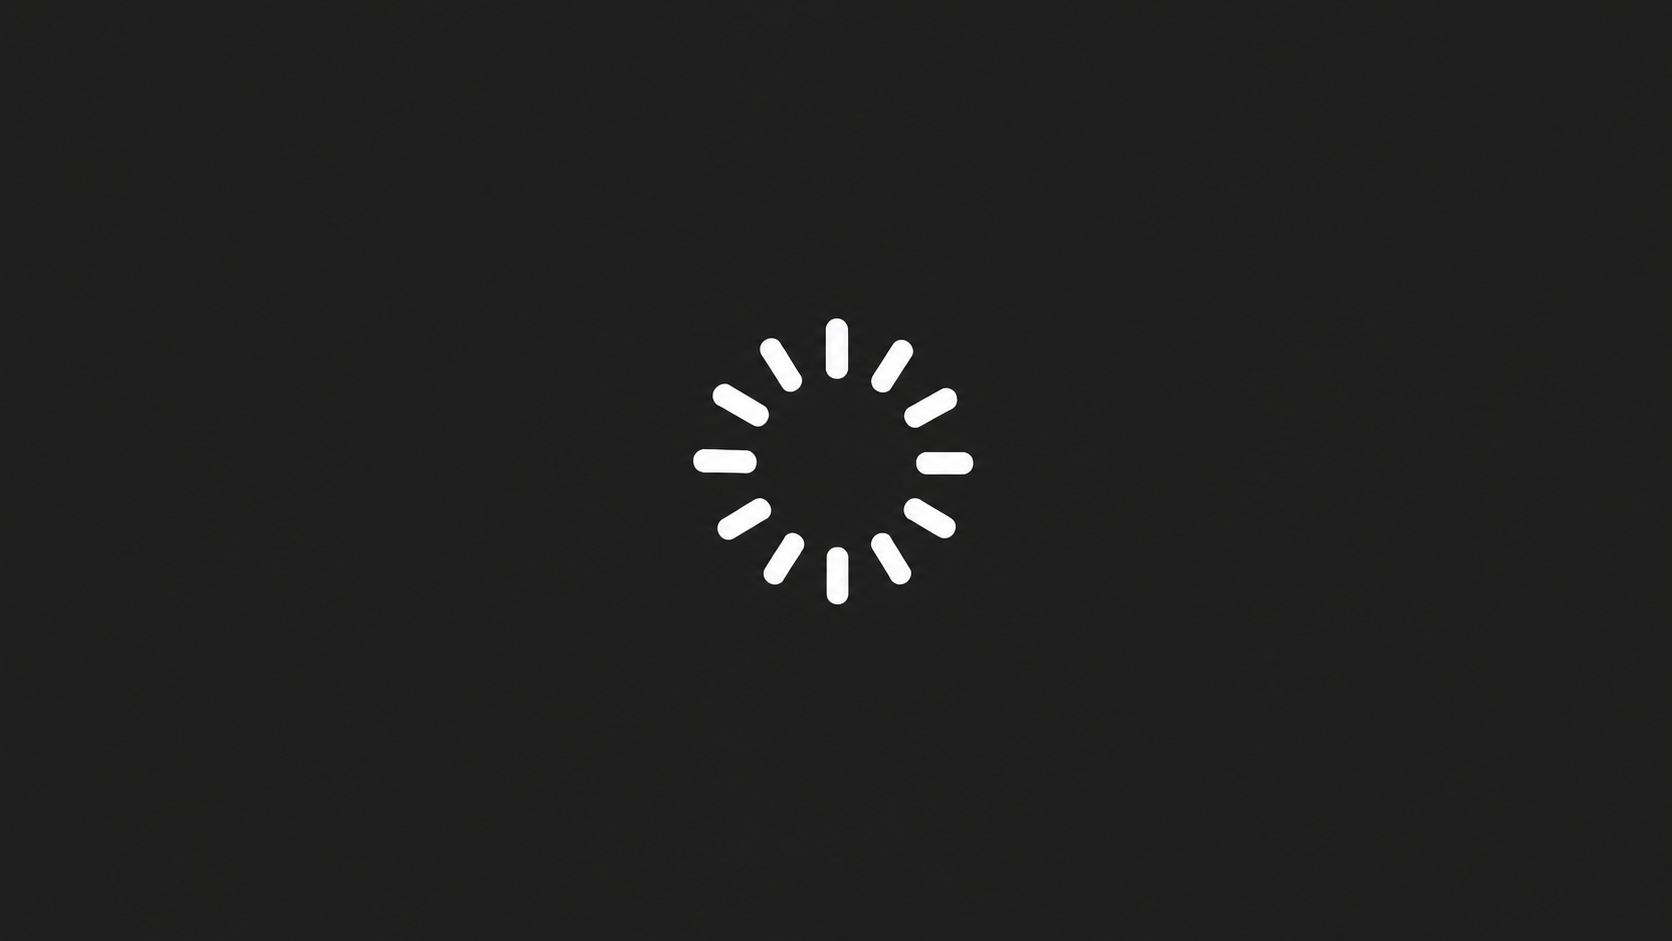
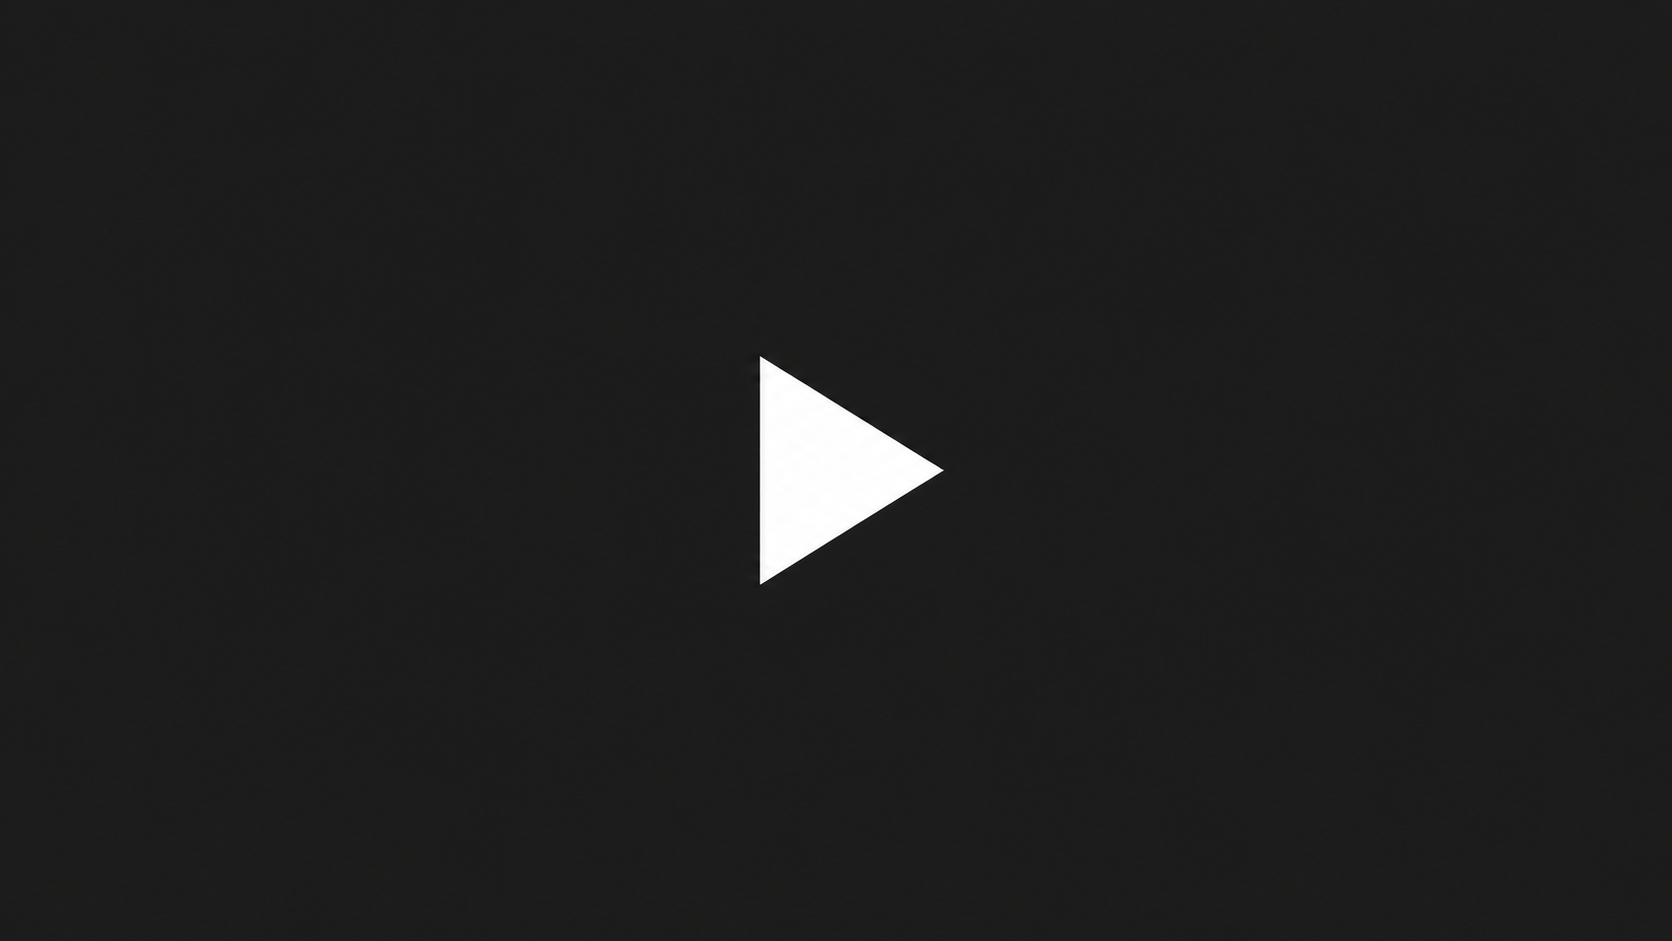
fix: 動画の手動再生ボタンを追加

Changed region(s): [[0.4043, 0.339, 0.5909, 0.6472]]

diff --git a/src/shared/ui/AutoplayVideo/index.tsx b/src/shared/ui/AutoplayVideo/index.tsx
@@ -1,3 +1,7 @@
+import { useCallback, useRef, useState } from "react";
+
+import styles from "./index.module.css";
+
 interface AutoplayVideoProps {
   src: string;
   poster: string;
@@ -8,10 +12,7 @@ const playMutedVideo = (video: HTMLVideoElement) => {
   video.defaultMuted = true;
   video.muted = true;
   video.playsInline = true;
-  if (video.paused) {
-    // Autoplay can still be denied by the browser, for example in Low Power Mode.
-    void video.play().catch(() => {});
-  }
+  return video.play();
 };
 
 const initializeVideo = (video: HTMLVideoElement | null) => {
@@ -21,24 +22,73 @@ const initializeVideo = (video: HTMLVideoElement | null) => {
   video.muted = true;
   video.playsInline = true;
   if (video.readyState >= HTMLMediaElement.HAVE_FUTURE_DATA) {
-    playMutedVideo(video);
+    void playMutedVideo(video).catch(() => {});
   }
 };
 
-const AutoplayVideo = ({ src, poster, ...props }: AutoplayVideoProps) => (
-  <video
-    {...props}
-    ref={initializeVideo}
-    poster={poster}
-    preload="metadata"
-    playsInline
-    muted
-    autoPlay
-    loop
-    onCanPlay={(event) => playMutedVideo(event.currentTarget)}
-  >
-    <source src={src} type="video/mp4" />
-  </video>
-);
+const AutoplayVideo = ({ src, poster, ...props }: AutoplayVideoProps) => {
+  const videoRef = useRef<HTMLVideoElement | null>(null);
+  const [isPlaying, setIsPlaying] = useState(false);
+  const [hasPlaybackError, setHasPlaybackError] = useState(false);
+  const label = props["aria-label"] ?? "動画";
+  const initializeVideoRef = useCallback((video: HTMLVideoElement | null) => {
+    videoRef.current = video;
+    initializeVideo(video);
+  }, []);
+
+  const handlePlayClick = () => {
+    const video = videoRef.current;
+    if (!video) return;
+    setHasPlaybackError(false);
+    // Call play synchronously within the user's click, as required by iOS.
+    void playMutedVideo(video).catch(() => setHasPlaybackError(true));
+  };
+
+  return (
+    <span className={styles["player"]}>
+      <video
+        {...props}
+        ref={initializeVideoRef}
+        poster={poster}
+        preload="metadata"
+        playsInline
+        muted
+        autoPlay
+        loop
+        onCanPlay={(event) => {
+          const video = event.currentTarget;
+          if (video.paused) void playMutedVideo(video).catch(() => {});
+        }}
+        onPlaying={() => {
+          setIsPlaying(true);
+          setHasPlaybackError(false);
+        }}
+        onPause={() => setIsPlaying(false)}
+        onEnded={() => setIsPlaying(false)}
+        onError={() => {
+          setIsPlaying(false);
+          setHasPlaybackError(true);
+        }}
+      >
+        <source src={src} type="video/mp4" />
+      </video>
+      {!isPlaying && (
+        <button
+          type="button"
+          className={styles["play-button"]}
+          aria-label={`${label}を再生`}
+          onClick={handlePlayClick}
+        >
+          <img src={poster} alt="" />
+        </button>
+      )}
+      {hasPlaybackError && (
+        <span className={styles["error"]} role="alert">
+          動画を再生できませんでした。もう一度お試しください。
+        </span>
+      )}
+    </span>
+  );
+};
 
 export default AutoplayVideo;

diff --git a/src/features/HomeCommunity/index.tsx b/src/features/HomeCommunity/index.tsx
@@ -1,5 +1,3 @@
-import { Link } from "react-router-dom";
-
 import styles from "./index.module.css";
 
 import videoLoading from "@/assets/video-loading.png";
@@ -17,13 +15,13 @@ const HomeCommunity = ({ community, isReversed }: HomeCommunityProps) => (
     className={styles["community"]}
     data-reversed={isReversed || undefined}
   >
-    <Link
-      className={styles["media"]}
-      to={`/community/${community.slug}`}
-      aria-label={`${community.name}を詳しく見る`}
-    >
-      <AutoplayVideo src={community.mp4} poster={videoLoading} />
-    </Link>
+    <div className={styles["media"]}>
+      <AutoplayVideo
+        src={community.mp4}
+        poster={videoLoading}
+        aria-label={`${community.name}紹介動画`}
+      />
+    </div>
     <div className={styles["text"]}>
       <h2>{community.name}</h2>
       <p>{community.domain}</p>

diff --git a/src/shared/ui/AutoplayVideo/index.module.css b/src/shared/ui/AutoplayVideo/index.module.css
@@ -1,0 +1,38 @@
+.player {
+  display: block;
+  position: relative;
+  width: 100%;
+  height: 100%;
+}
+
+.play-button {
+  position: absolute;
+  inset: 0;
+  width: 100%;
+  height: 100%;
+  padding: 0;
+  border: 0;
+  background: transparent;
+  cursor: pointer;
+}
+
+.play-button img {
+  display: block;
+  width: 100%;
+  height: 100%;
+  object-fit: cover;
+}
+
+.play-button:focus-visible {
+  outline-offset: -4px;
+}
+
+.error {
+  position: absolute;
+  bottom: 8px;
+  inset-inline: 8px;
+  padding: 8px;
+  color: var(--font-color);
+  background: var(--background-color);
+  pointer-events: none;
+}

diff --git a/src/features/HomeCommunity/index.module.css b/src/features/HomeCommunity/index.module.css
@@ -82,6 +82,7 @@
   }
   .media {
     position: absolute;
+    z-index: 1;
     bottom: 15vw;
     height: 55vw;
     width: 100%;
